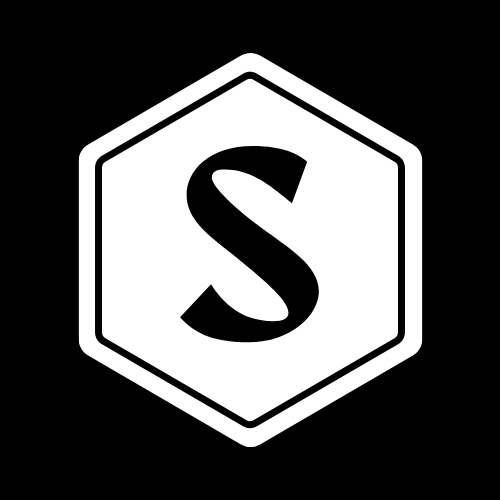
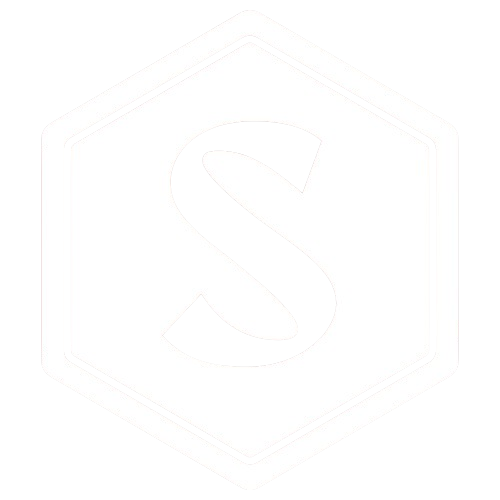
Update

diff --git a/index.html b/index.html
@@ -4,7 +4,10 @@
     <meta charset="UTF-8">
     <meta name="viewport" content="width=device-width, initial-scale=1.0">
     <title>E-Com Webpage</title>
-    <link rel="icon" href="./assets/icon2.png">
+    
+    <!-- icon -->
+     <link rel="shortcut icon" href="./assets/icon.png" type="image/x-icon">
+    <!-- icon -->
 
     <!-- css -->
      <link rel="stylesheet" href="style.css">
